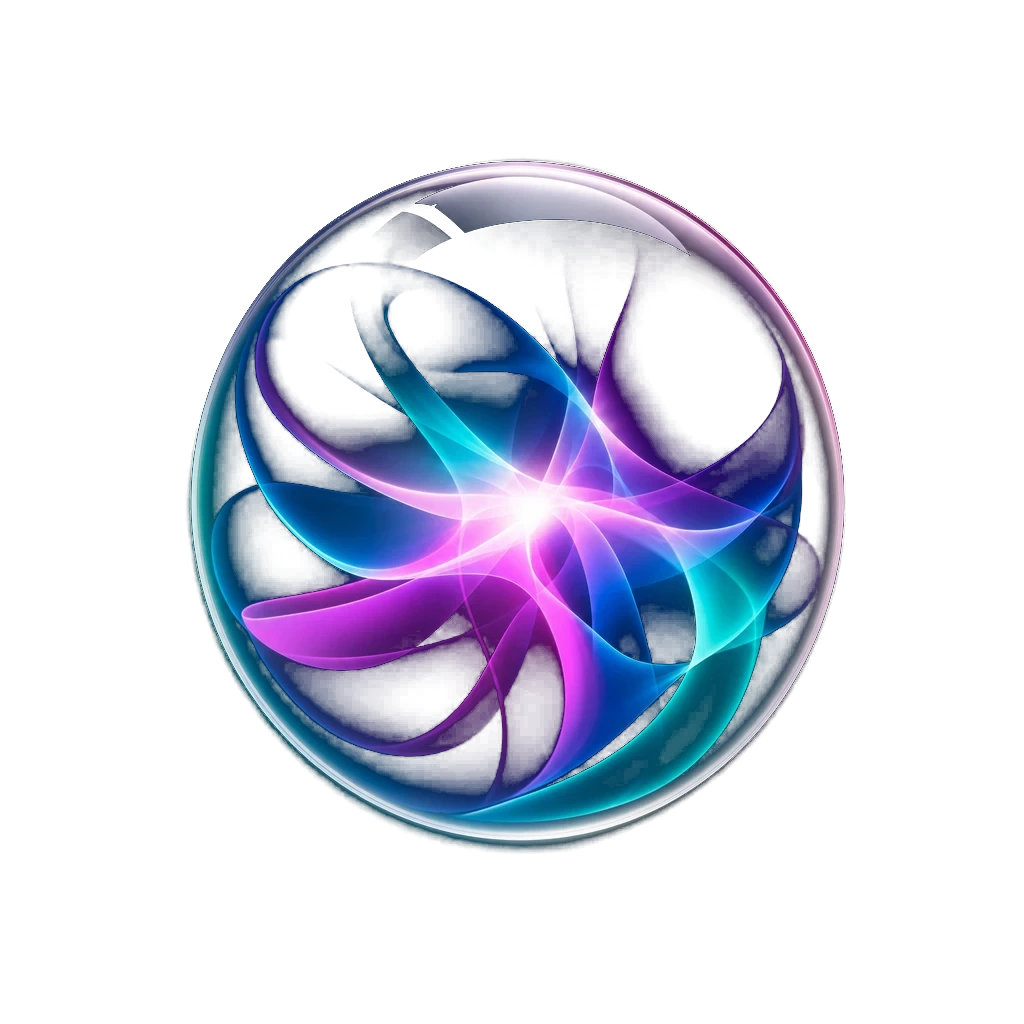
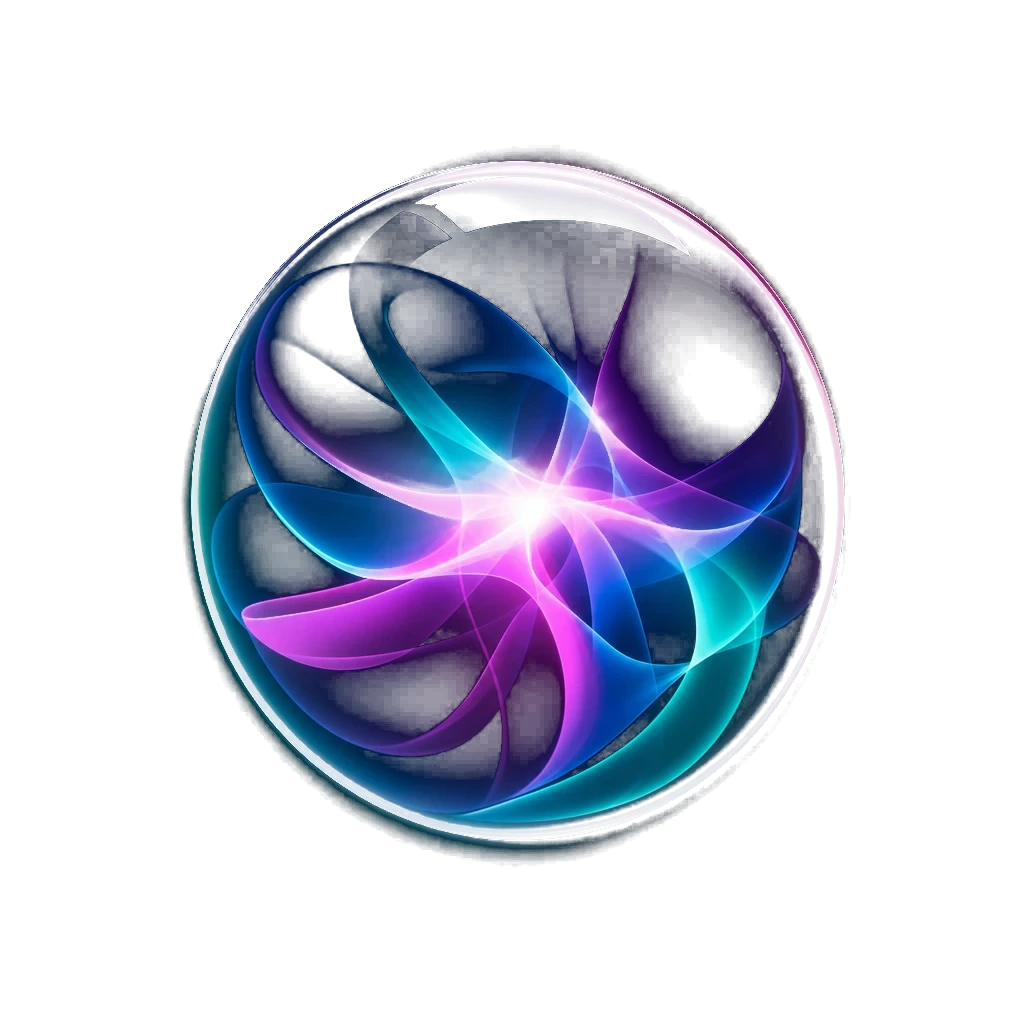
Cleaner Aurora & Blossom in light mode (saturation-aware keying)
Key the swirl orbs by colour as well as brightness: keep the saturated
ribbons and the bright white core, drop the desaturated gray smoke. This
clears Blossom's haze completely and removes most of Aurora's. The faint
blue mist left at the top of Aurora is part of the original swirl art
(a coloured halo), not a removable background.

Claude-Session: https://claude.ai/code/session_01XhvTgWBaq4WNZToEtxikfM

Changed region(s): [[0.1562, 0.125, 0.8438, 0.8438], [0.5, 0.4375, 0.5625, 0.4688]]

diff --git a/public/sw.js b/public/sw.js
@@ -1,4 +1,4 @@
-const C = 'lull-v61';
+const C = 'lull-v62';
 const ASSETS = ['/', '/app', '/privacy', '/assets/lull.js', '/manifest.webmanifest', '/icon-192.png', '/icon-512.png', '/apple-touch-icon.png', '/favicon-32.png'];
 self.addEventListener('install', (e) => {
   e.waitUntil(caches.open(C).then((c) => c.addAll(ASSETS)).then(() => self.skipWaiting()).catch(() => {}));
